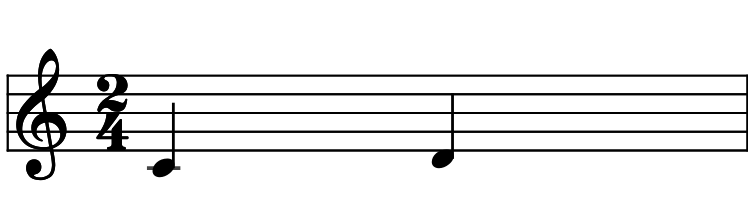
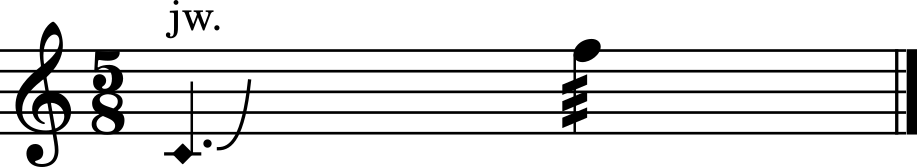
docs update

Changed region(s): [[0.0, 0.1198, 1.0, 1.0], [0.1845, 0.0599, 0.246, 0.2395], [0.1845, 0.0, 0.2152, 0.0299]]

diff --git a/Documentation/index.md b/Documentation/index.md
@@ -1,11 +1,3 @@
----
-hide:
-  - navigation
-  - toc
-tags:
-  - Overview
----
-
 <style>
   .md-typeset h1,
   .md-content__button {
@@ -34,8 +26,8 @@ OpenScofo exists so live electronics can stay aligned with a human performer. It
 - __OpenScofo Score__
 
     ```openscofo
-    NOTE C4 1
-    NOTE D4 1
+    UTECH jet-whistle 3
+    NOTE F5 2
         sendto activated_computer_processing [1]
     ```
 </div>
